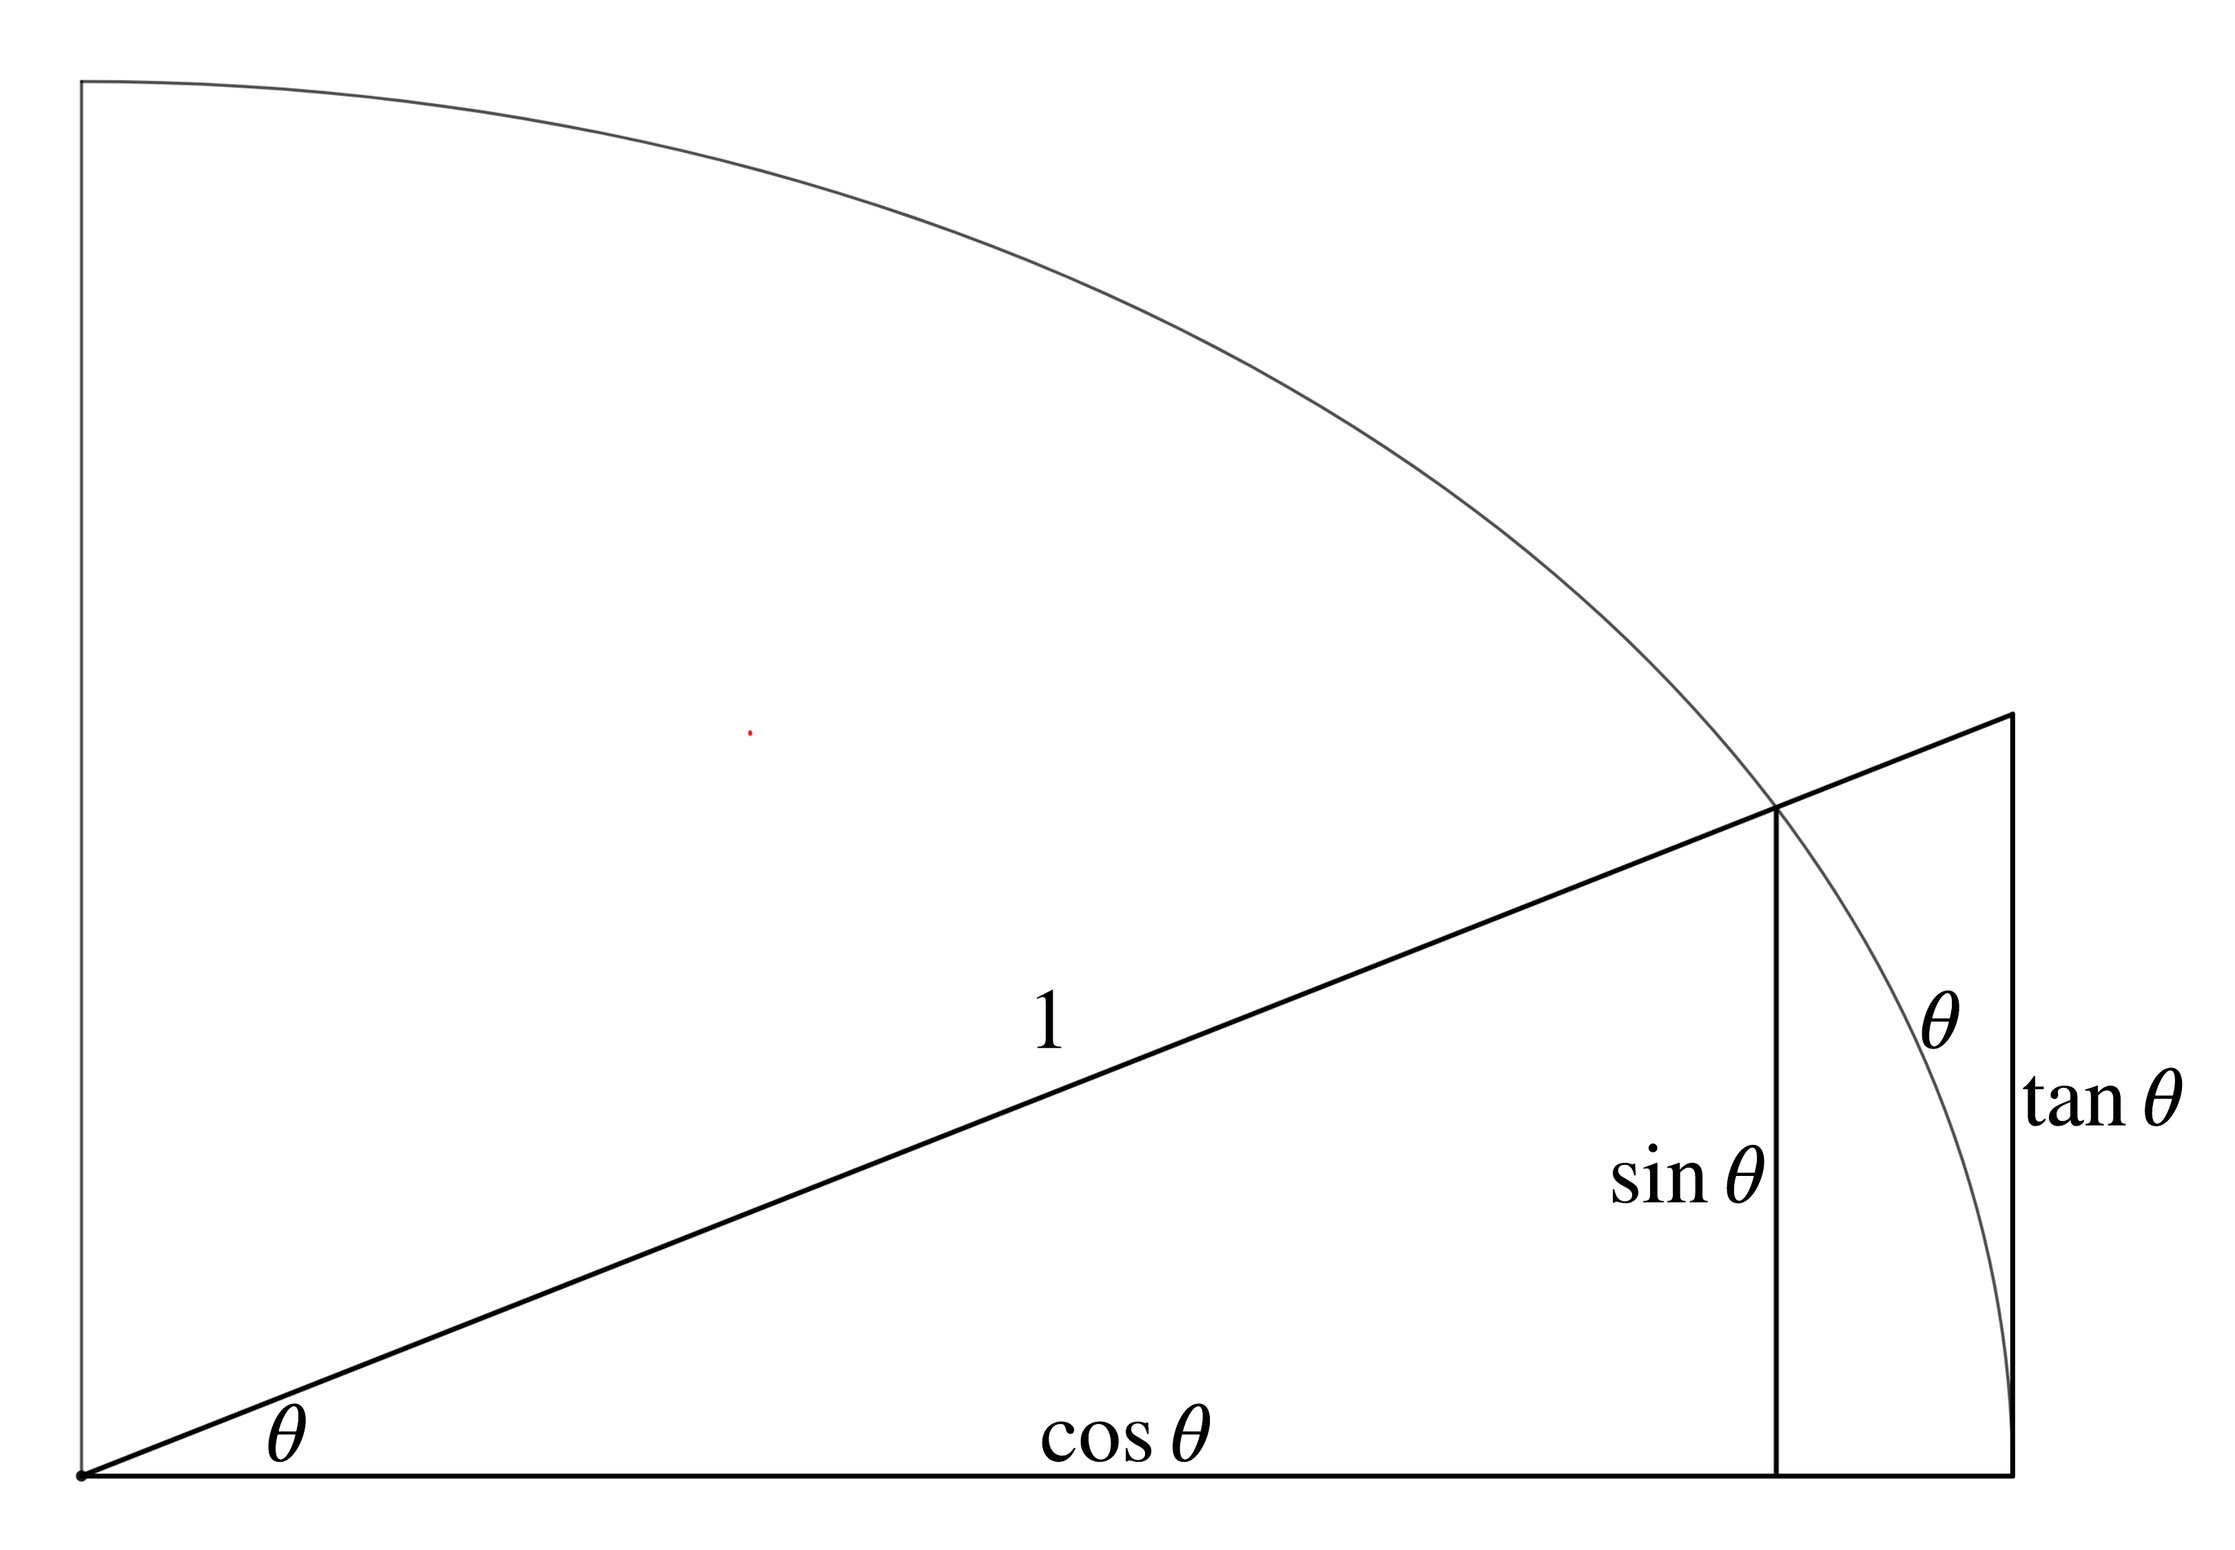
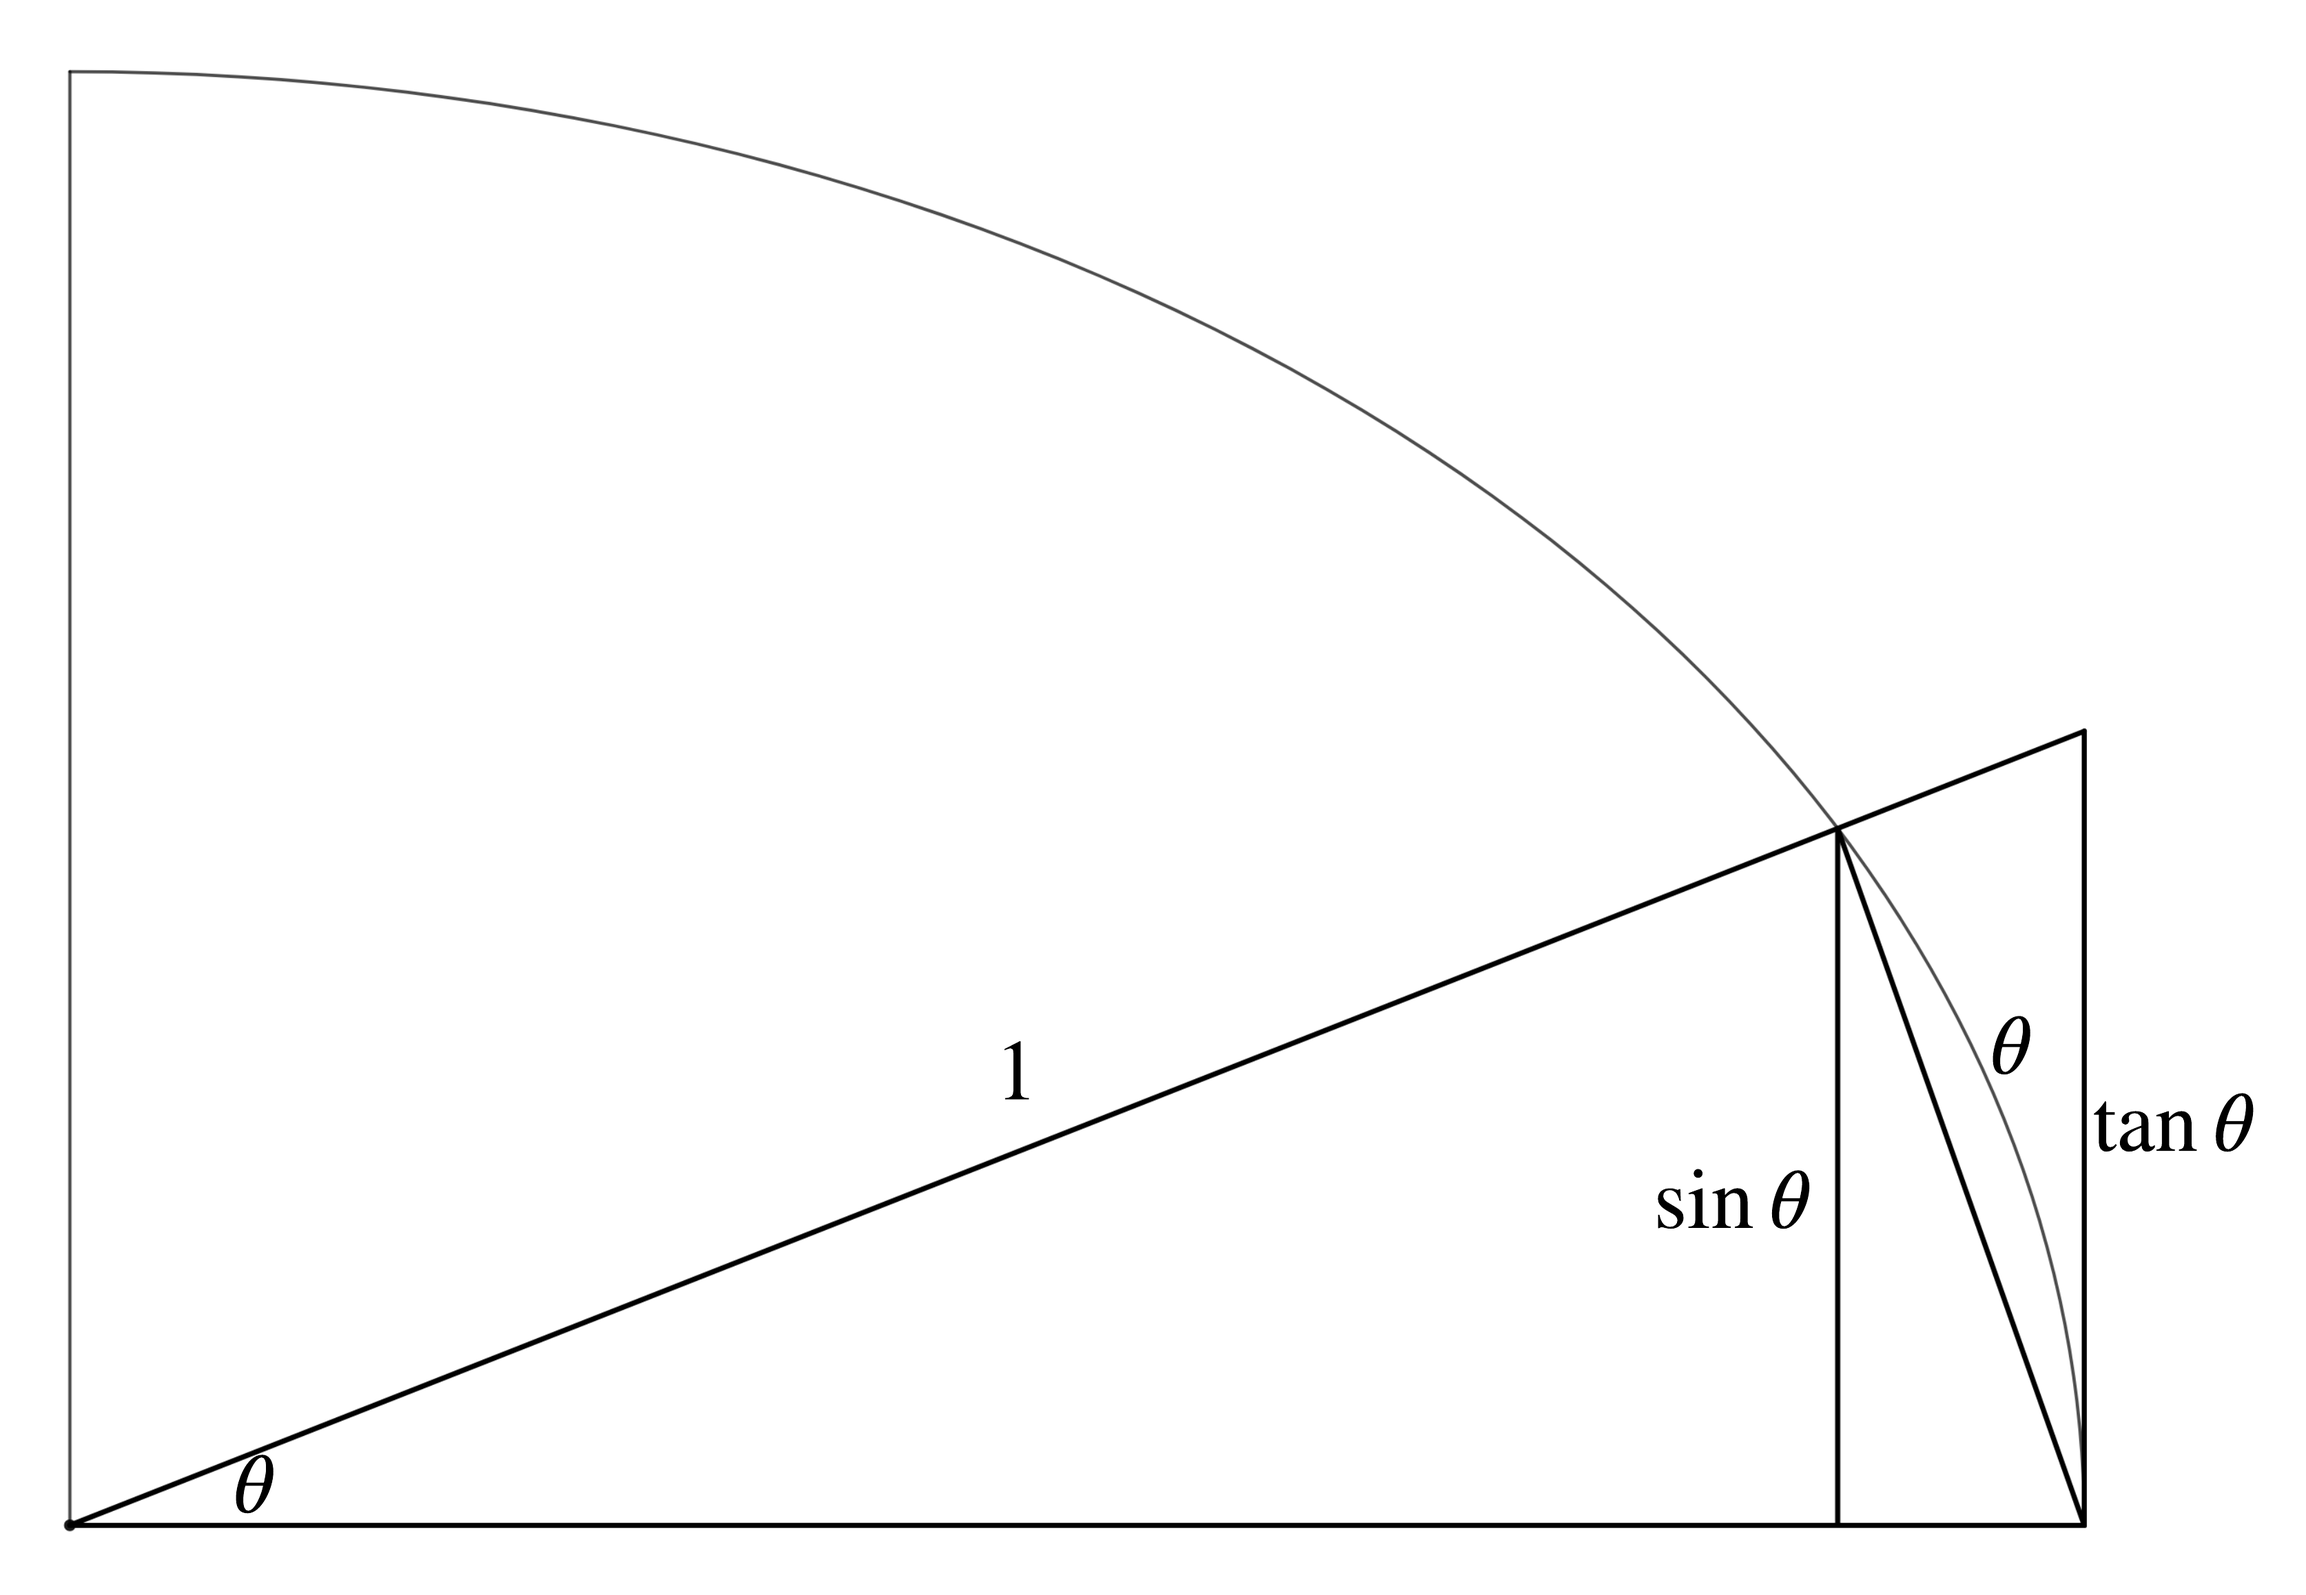
Rework sin(x)/x limit proof to be more clear by using area instead of length

diff --git a/calc/limits_continuity/sandwich_theorem.tex b/calc/limits_continuity/sandwich_theorem.tex
@@ -21,11 +21,12 @@ Consider the following on a unit circle.
 	\caption{\hyperref{}{}{}{Triangle with internal angle $\theta$ inside a unit circle.}}
 \end{figure}
 
-We can see that the length of the arc is between the length of the two bases of the triangles.
+We can see that the area of the swept arc is between the two triangle with base of length 1 and heights of $\sin{\theta}$ and $\tan{\theta}$.
 So, we can write the following inequality.
-\begin{equation*}
-	\sin{\theta} \leq \theta \leq \frac{\sin{\theta}}{\cos{\theta}}.
-\end{equation*}
+\begin{align*}
+	\frac{1}{2}\sin{\theta} &\leq \frac{1}{2}\theta \leq \frac{1}{2}\frac{\sin{\theta}}{\cos{\theta}} \\
+	\sin{\theta} \leq \theta &\leq \frac{\sin{\theta}}{\cos{\theta}}
+\end{align*}
 \indent
 Taking the reciprocal of each part and multiplying by $\sin{\theta}$,
 \begin{equation*}
